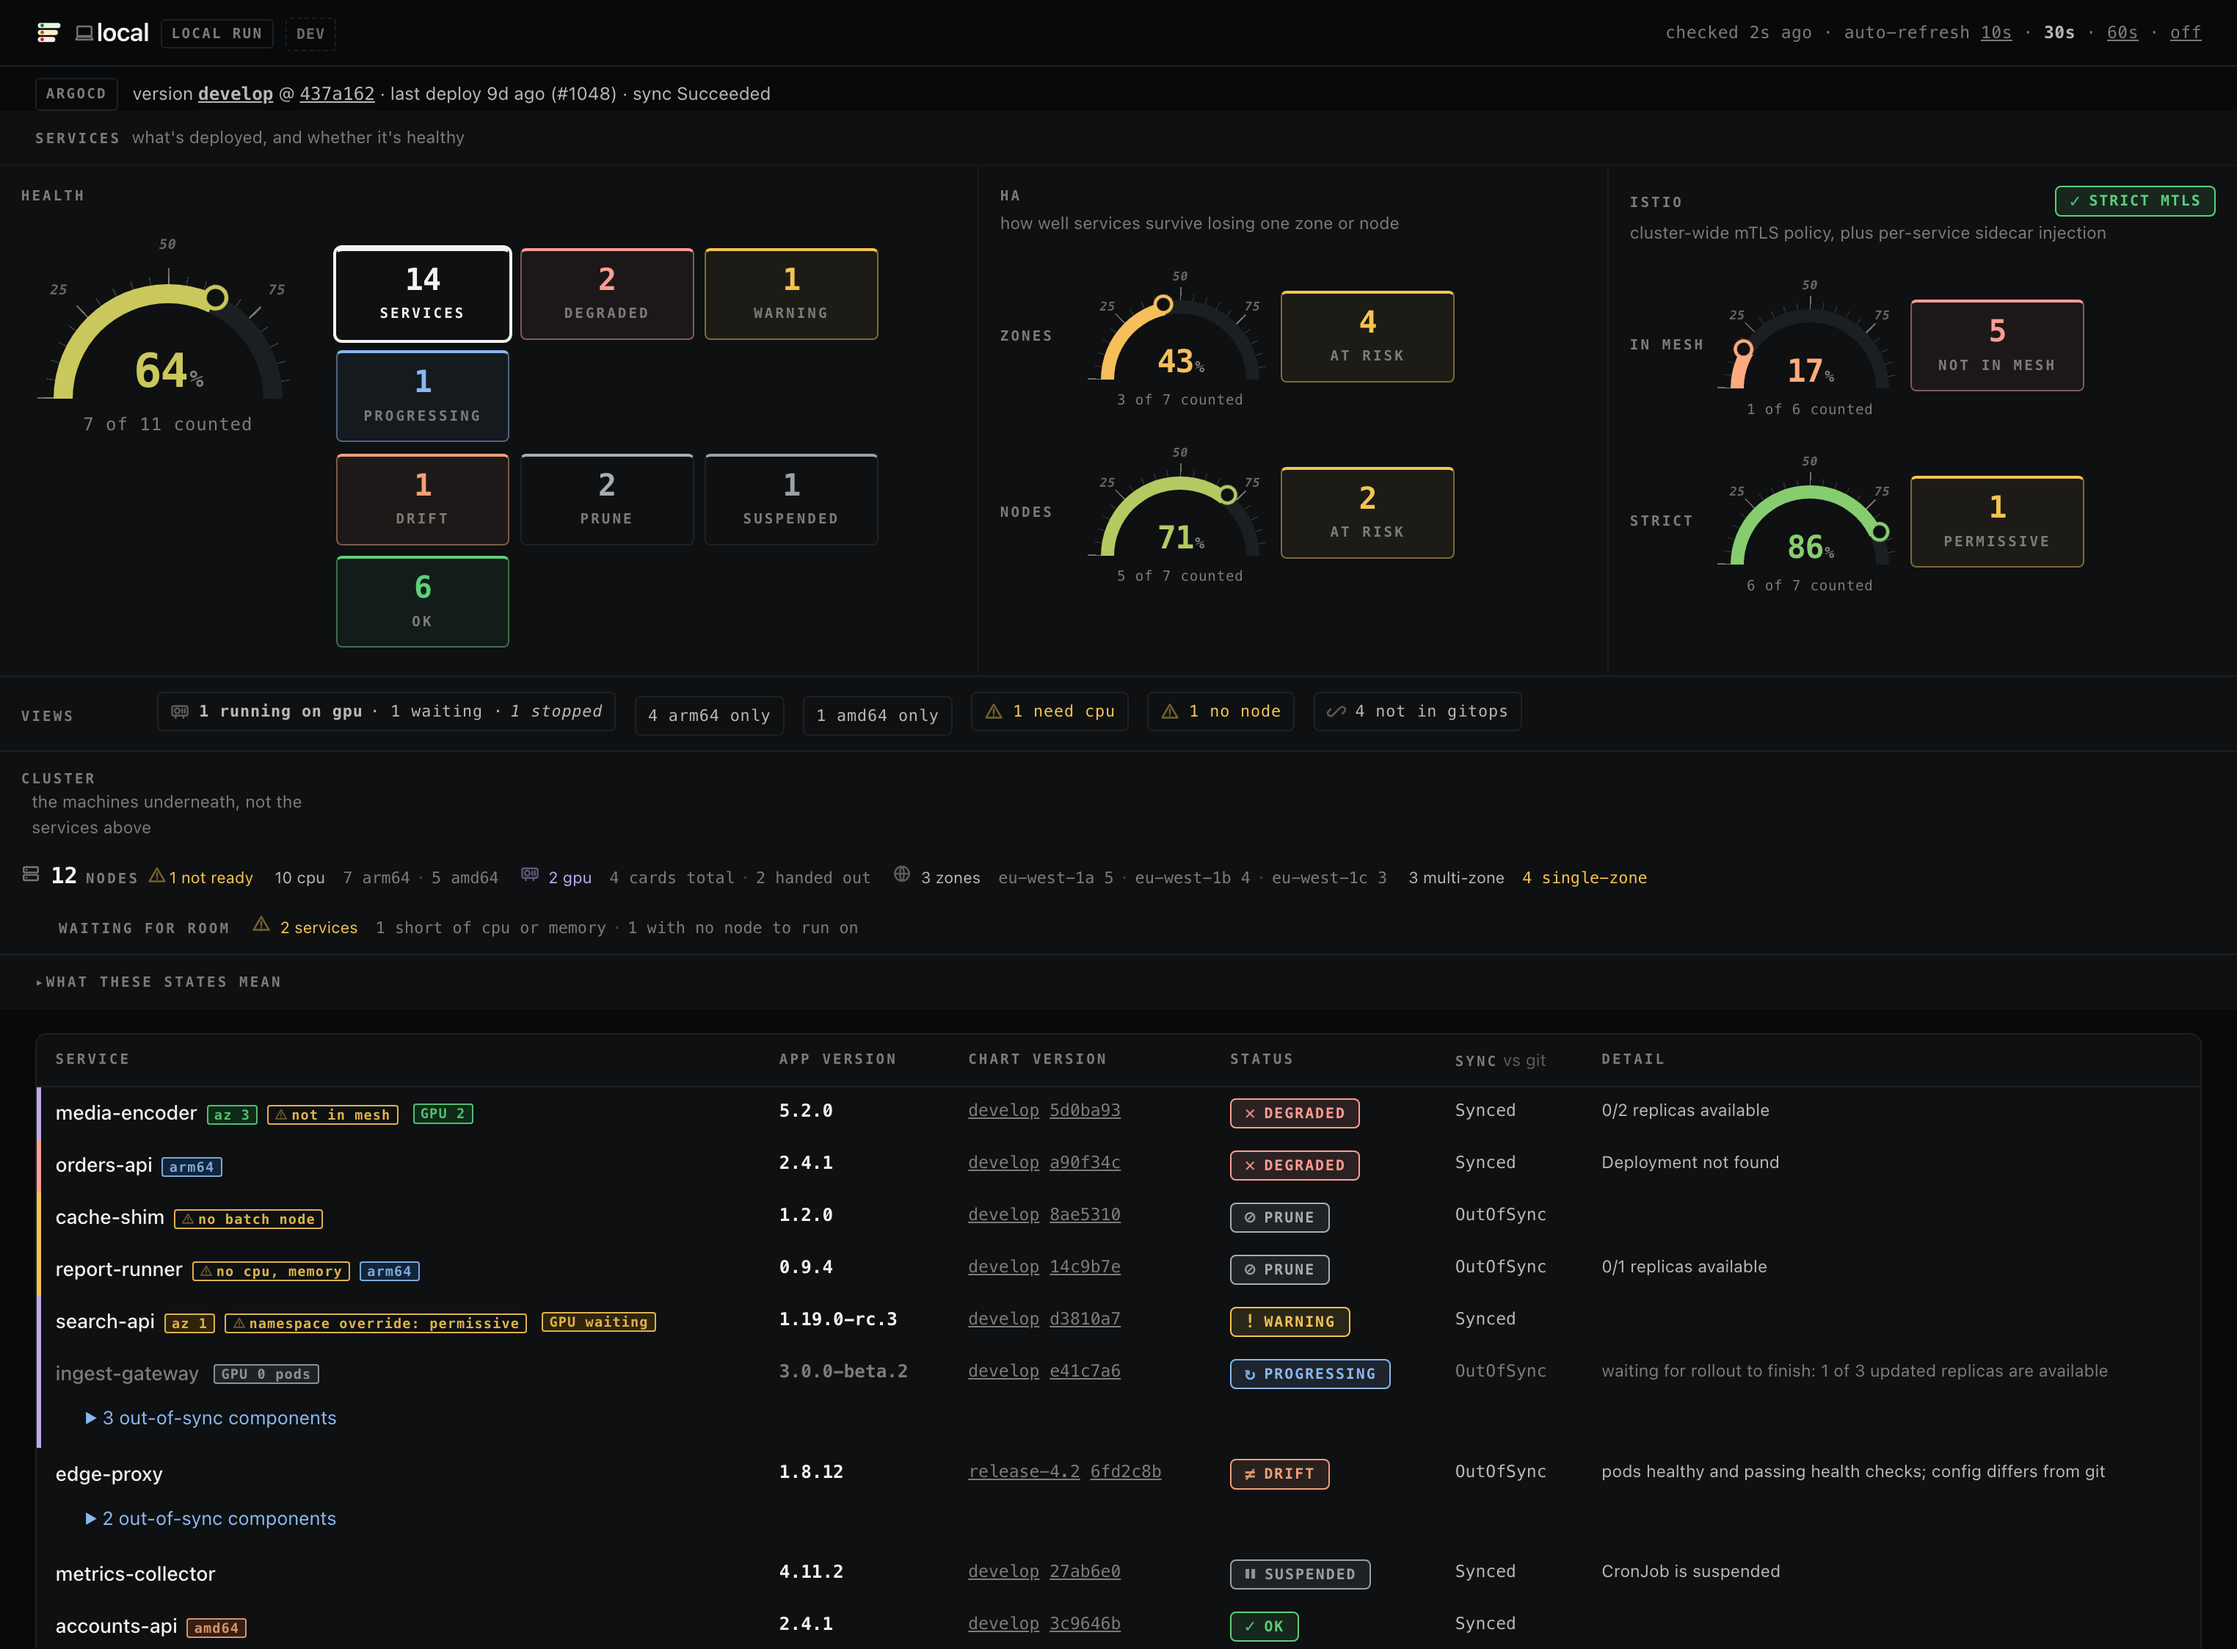
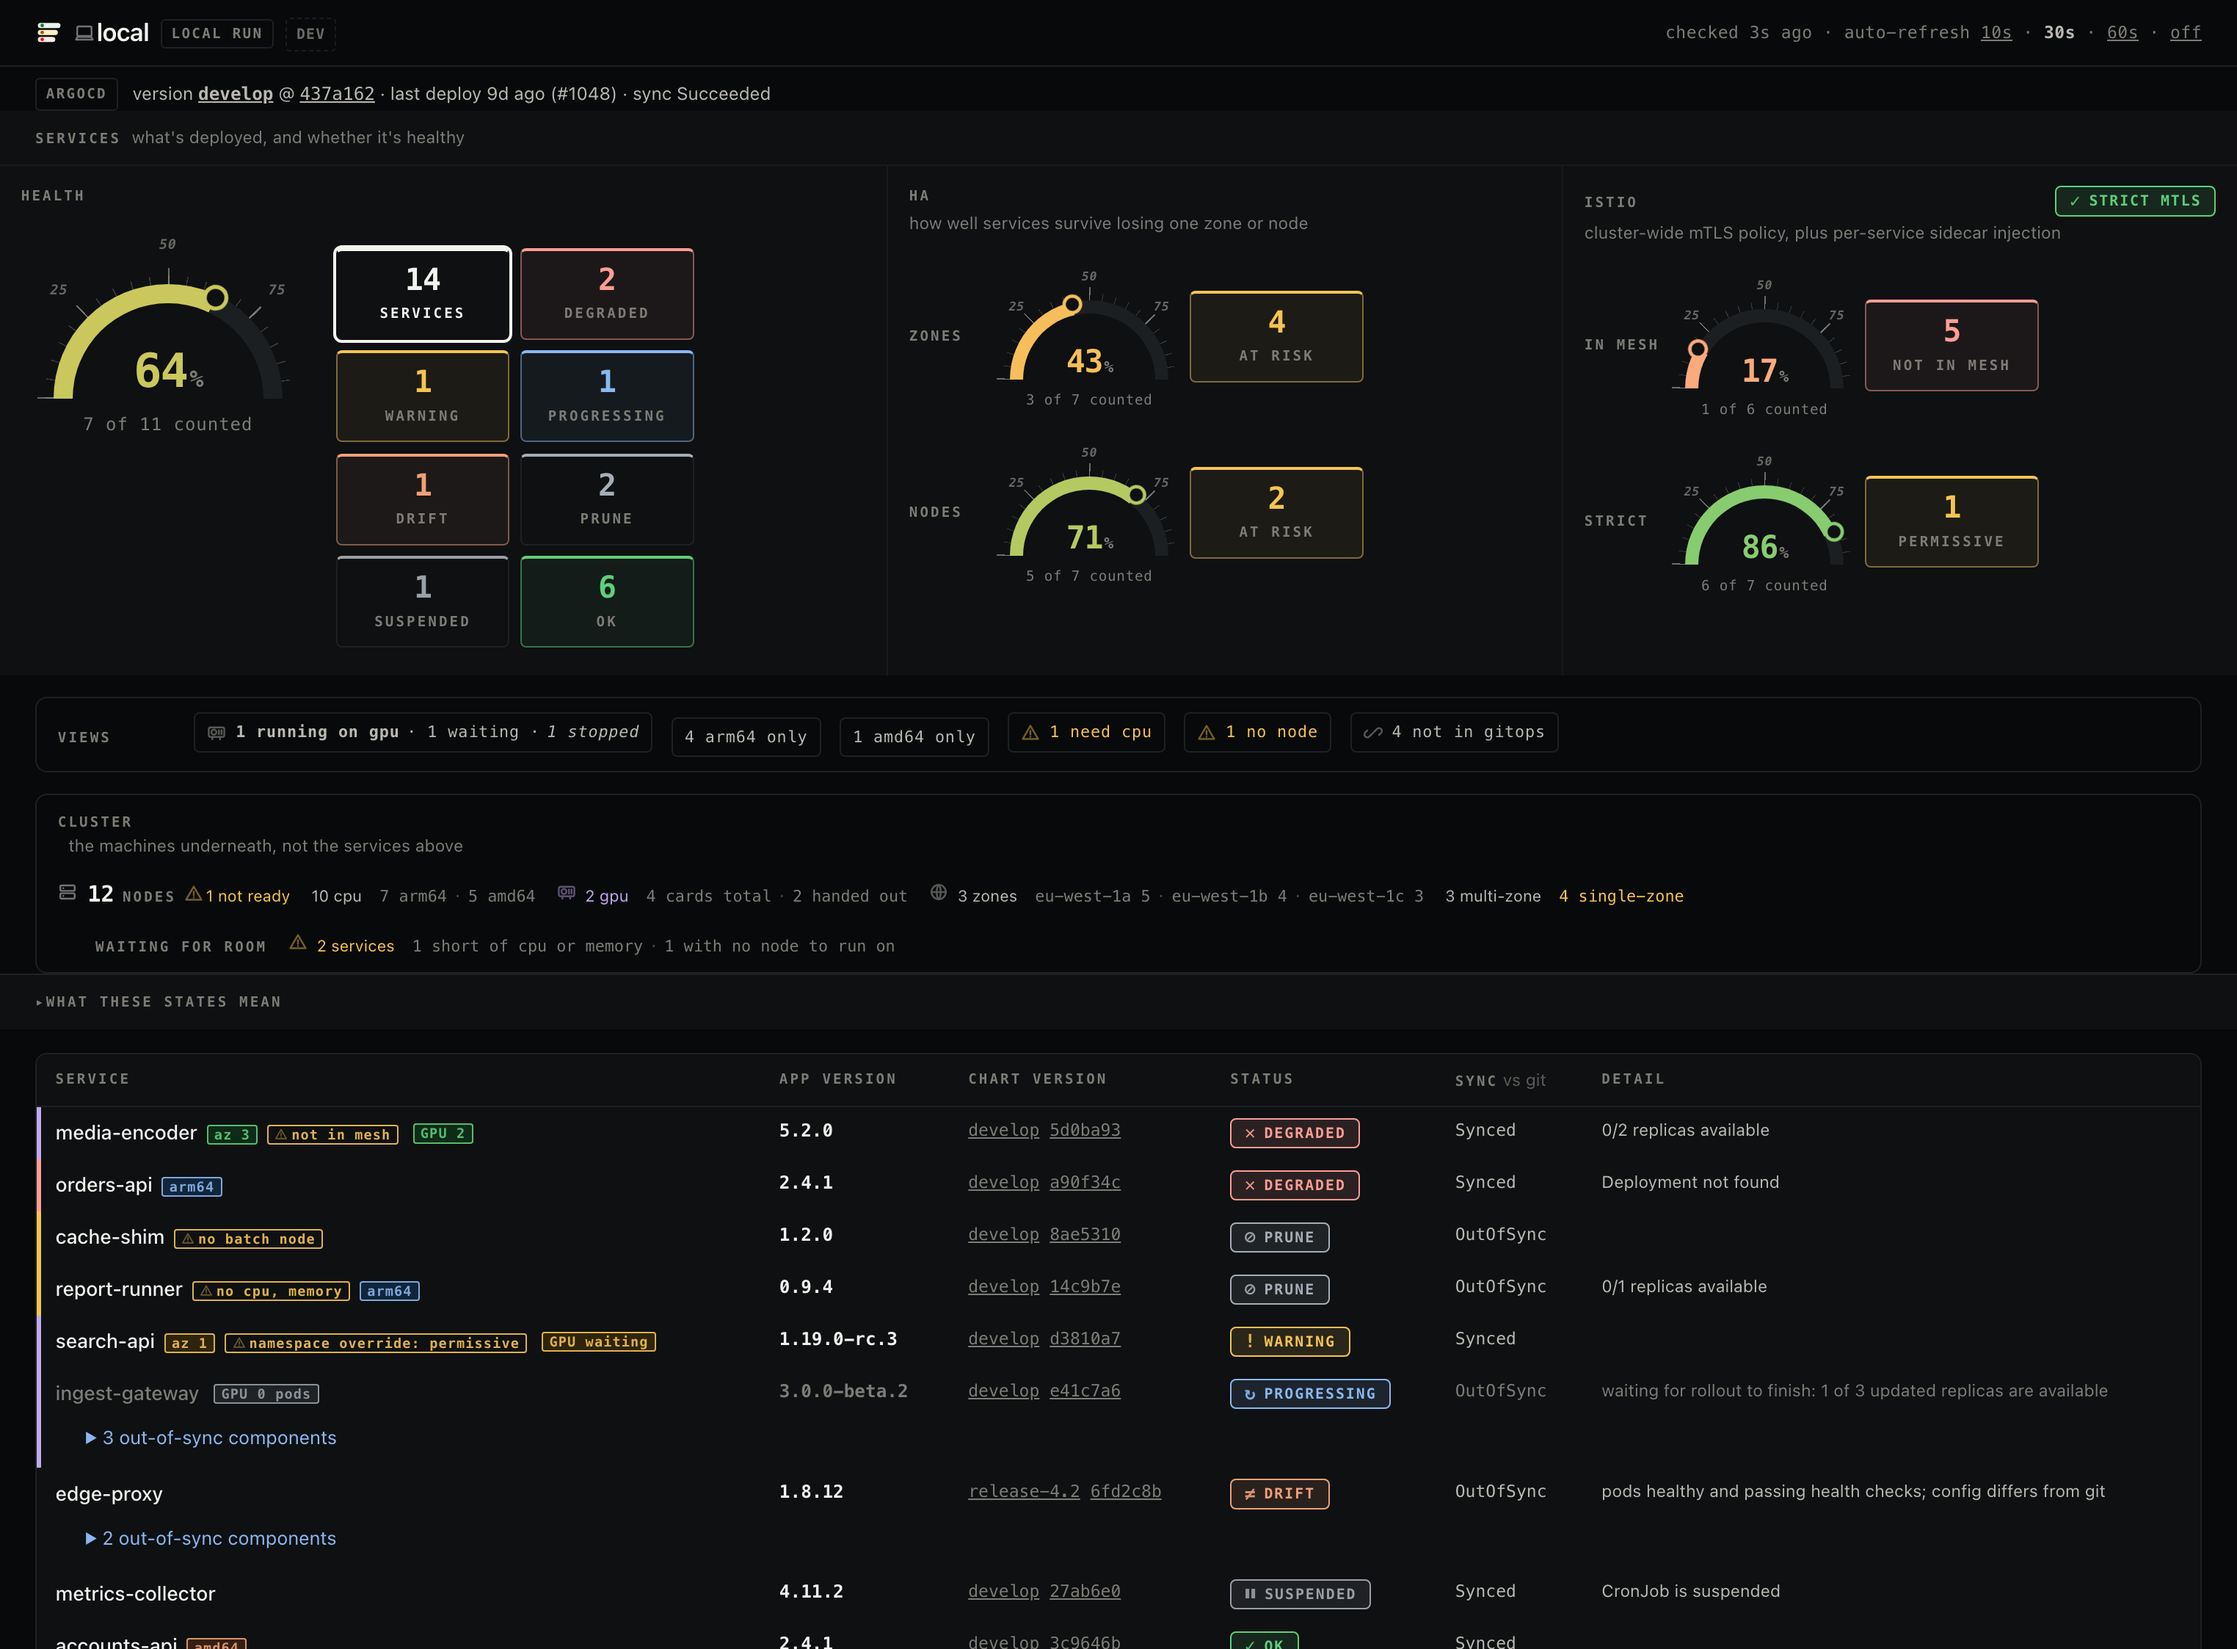
fix: equal area growth, Views/Cluster boxed, cluster subtitle wrap
Services/HA/Istio grew unevenly as the window widened -- the first
area (Services) had flex-grow: 2 against the other two's implicit 1,
so with only 1-2 tiles active (most states at zero) it visibly had
more empty slack than its neighbors. All three now grow equally.

Views and Cluster get their own bordered card back instead of the
flat hairline-band treatment: they read as distinct panels, matching
the rest of the page's panel language.

Cluster's own subtitle ("the machines underneath...") was capped at
12rem, wrapping mid-phrase. Widened to 20rem, and dropped an added
max-width: 100% that quietly re-broke it by capping against its
5rem-wide parent instead of the intended overflow.

diff --git a/internal/web/templates/index.html b/internal/web/templates/index.html
@@ -557,8 +557,20 @@ h1 { font-size: 1.05rem; letter-spacing: -.015em; }
 .views-lab, .capacity > .cap-head {
   flex: none; width: 5rem; margin: 0; padding-top: .12rem;
 }
-.capacity > .cap-head .cap-sub { display: block; width: 12rem; }
+/* 12rem forced this sentence to wrap mid-phrase ("...not the / services above").
+   max-width would seem safer than a bare width, but .cap-head itself is pinned to
+   a 5rem rail (below) and this text is deliberately meant to overflow past it into
+   the row -- max-width: 100% caps it at 100% of that 5rem parent instead, which is
+   the opposite of what's needed here. */
+.capacity > .cap-head .cap-sub { display: block; width: 20rem; }
 .capacity { flex-wrap: wrap; }
+/* Filters and Cluster get their own bordered card back, undoing the flat
+   hairline-band treatment above for just these two: they read as distinct panels,
+   not more rows of the same running sheet. */
+.views, .capacity {
+  background: var(--plane); border: 1px solid var(--hair); border-radius: 8px;
+  margin: .9rem 0 0; padding: .6rem .9rem;
+}
 .capacity > .cap-row, .capacity > .cap-note { flex: 1 1 24rem; margin-top: 0; }
 .views { flex-wrap: wrap; }
 
@@ -569,7 +581,10 @@ h1 { font-size: 1.05rem; letter-spacing: -.015em; }
   background: transparent; border: 0; border-radius: 0;
   padding: .85rem .9rem; min-width: 0; flex: 1 1 21rem;
 }
-.areas > .area:first-child { flex: 2 1 30rem; }
+/* Equal growth, not 2x on the first area: with only 1-2 tiles active (most states
+   at zero), Health's own content is narrower than HA/Istio's, so growing it faster
+   just left visibly more empty slack in that one area as the window widened. */
+.areas > .area:first-child { flex: 1 1 30rem; }
 .area + .area { border-left: 1px solid var(--hair-2); }
 /* Area heads sit on the same rail as the section labels below them. */
 .area > .cap-head { display: block; margin-bottom: .1rem; }
